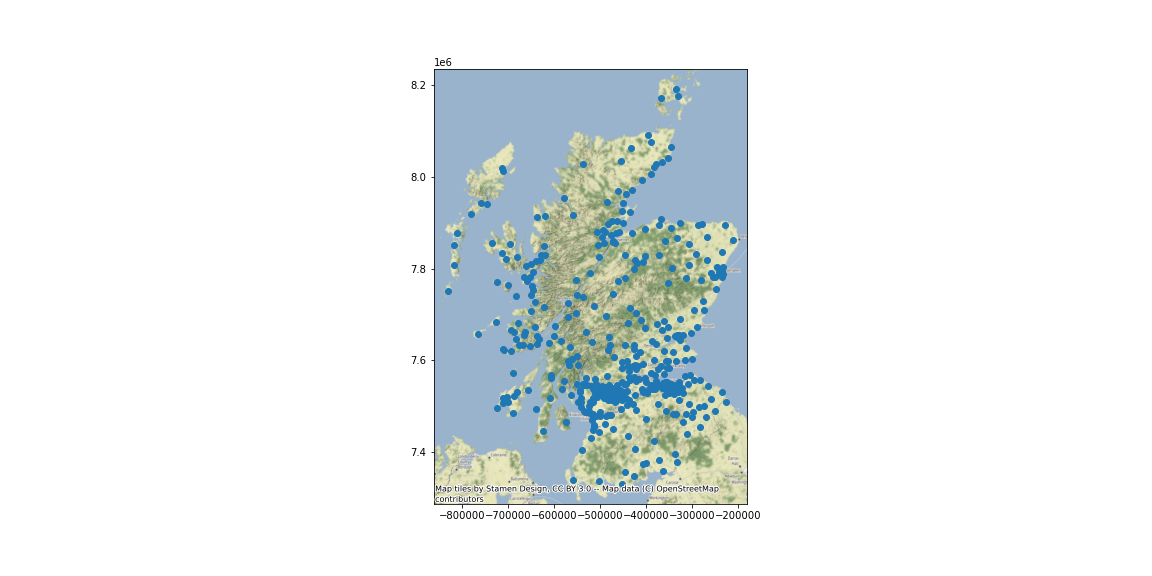
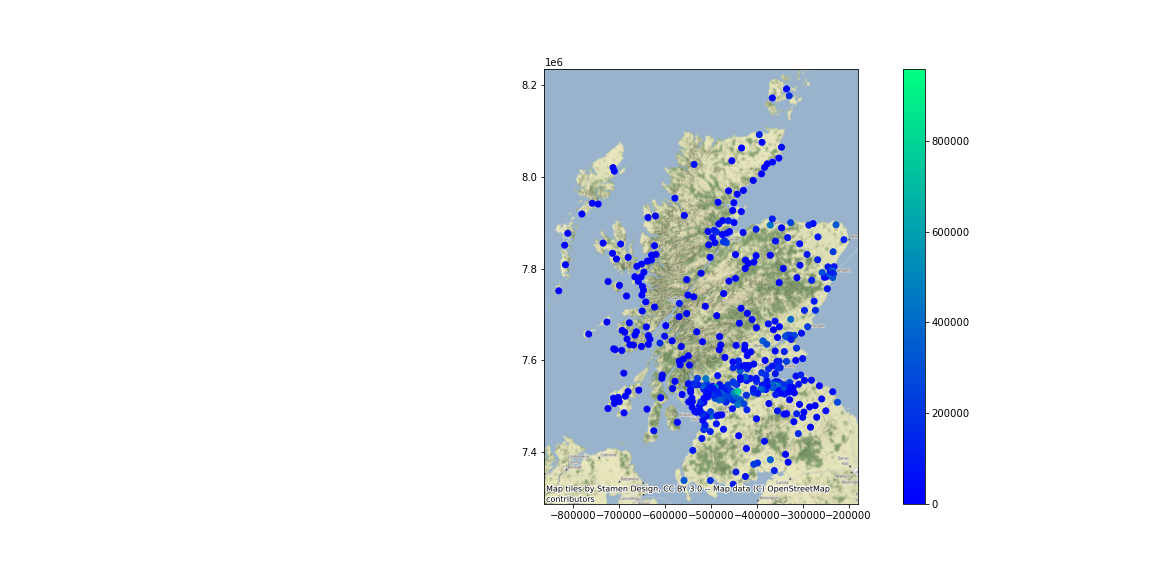
Changed the plots

Changed region(s): [[0.375, 0.0938, 0.75, 0.9062], [0.7812, 0.0938, 0.8438, 0.875]]

diff --git a/plot.py b/plot.py
@@ -33,13 +33,13 @@ def read_convert(file_name, easting = 'X (Easting)', northing = 'Y (Northing)', 
 def plot_map(data, save_name = 'map.png'):
     geometry = [Point(xy) for xy in zip(data['lat'], data['lon'])]
 
-    gdf = gpd.GeoDataFrame(data['District ID'], geometry = geometry)
+    gdf = gpd.GeoDataFrame(data['total_demand'], geometry = geometry)
 
     gdf = gdf.set_crs(epsg = 4326, inplace=True)
     gdf = gdf.to_crs(epsg = 3857)
 
     plt.figure()
-    ax = gdf.plot(figsize = (16, 8))
+    ax = gdf.plot(column = 'total_demand', figsize = (16, 8), cmap = 'winter', legend = True)
     ctx.add_basemap(ax)
     # crs = {'init': 'epsg:4326'}
     # ctx.add_basemap(ax, crs = crs)
@@ -49,8 +49,8 @@ def plot_map_chosen(data, data_chosen, save_name = 'map_chosen.png'):
     geometry = [Point(xy) for xy in zip(data['lat'], data['lon'])]
     geometry_chosen = [Point(xy) for xy in zip(data_chosen['lat'], data_chosen['lon'])]
 
-    gdf = gpd.GeoDataFrame(data['District ID'], geometry = geometry)
-    gdf_chosen = gpd.GeoDataFrame(data_chosen['District ID'], geometry = geometry_chosen)
+    gdf = gpd.GeoDataFrame(data['total_demand'], geometry = geometry)
+    gdf_chosen = gpd.GeoDataFrame(data_chosen['total_demand'], geometry = geometry_chosen)
 
     gdf = gdf.set_crs(epsg = 4326, inplace=True)
     gdf = gdf.to_crs(epsg = 3857)
@@ -58,11 +58,9 @@ def plot_map_chosen(data, data_chosen, save_name = 'map_chosen.png'):
     gdf_chosen = gdf_chosen.to_crs(epsg = 3857)
 
     plt.figure()
-    ax = gdf.plot(figsize = (16, 8))
-    gdf_chosen.plot(ax = ax, color = 'orange')
+    ax = gdf.plot(column = 'total_demand', figsize = (16, 8), cmap = 'winter', legend = True)
+    gdf_chosen.plot(ax = ax, column = 'total_demand', cmap = 'autumn', legend = True)
     ctx.add_basemap(ax)
-    # crs = {'init': 'epsg:4326'}
-    # ctx.add_basemap(ax, crs = crs)
     plt.savefig(save_name)
 
 with open('log.txt') as f:
@@ -70,7 +68,9 @@ with open('log.txt') as f:
 chosen = re.findall(r'Facility (.*?) open to serve customers: ', log_data)
 chosen = [int(i) for i in chosen]
 
-data = read_convert('Data\Potential Locations.xlsx', easting = 'X (Easting)', northing = 'Y (Northing)', lat = 'lat', lon = 'lon')
+# data = read_convert('Data\Potential Locations.xlsx', easting = 'X (Easting)', northing = 'Y (Northing)', lat = 'lat', lon = 'lon')
+data = read_convert('Data\Postcode Districts.xlsx', easting = 'X (Easting)', northing = 'Y (Northing)', lat = 'lat', lon = 'lon')
+data['total_demand'] = data[['Group 1', 'Group 2', 'Group 3', 'Group 4']].sum(axis = 1)
 data_chosen = data.iloc[chosen]
 
 plot_map(data)
